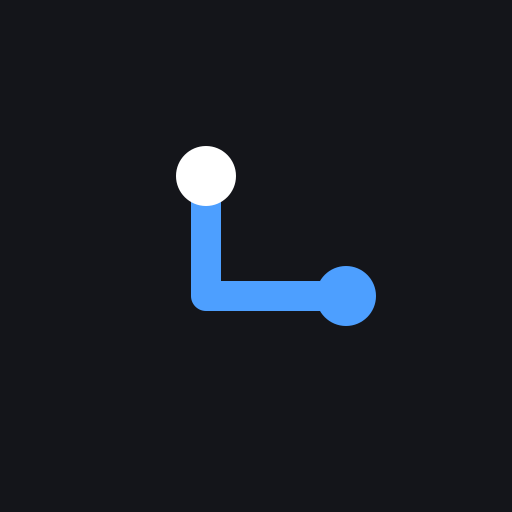
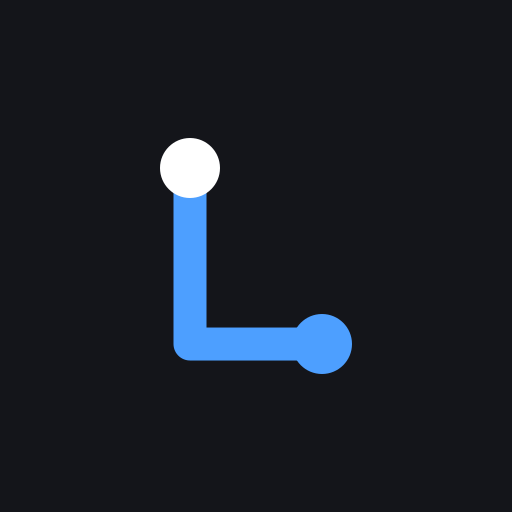
playground: reshape brand mark to read as the letter L (#213)
Match landing: path M11 7V23H23 with pads at 11,7 and 23,23, plus
regenerated favicon/app-icon assets and the pulsing loading-screen mark.

Changed region(s): [[0.3125, 0.25, 0.75, 0.75]]

diff --git a/packages/playground/index.html b/packages/playground/index.html
@@ -42,9 +42,9 @@
 <body>
   <div id="root"><div id="loading">
     <svg width="40" height="40" viewBox="0 0 32 32" fill="none" aria-hidden="true">
-      <path d="M10 7V19H25" stroke="#4d9fff" stroke-width="3" stroke-linecap="round" stroke-linejoin="round"/>
-      <circle cx="10" cy="7" r="3" fill="#e8eaed"/>
-      <circle cx="25" cy="19" r="3" fill="#4d9fff"/>
+      <path d="M11 7V23H23" stroke="#4d9fff" stroke-width="3" stroke-linecap="round" stroke-linejoin="round"/>
+      <circle cx="11" cy="7" r="3" fill="#e8eaed"/>
+      <circle cx="23" cy="23" r="3" fill="#4d9fff"/>
     </svg>
     Loading…
   </div></div>

diff --git a/packages/playground/src/Icons.tsx b/packages/playground/src/Icons.tsx
@@ -142,9 +142,9 @@ export function ChevronRightIcon({ size = defaults.size, ...rest }: IconProps) {
 
 export const LogoIcon = (props: React.SVGProps<SVGSVGElement>) => (
   <svg viewBox="0 0 32 32" width="18" height="18" fill="none" {...props}>
-    <path d="M10 7V19H25" stroke="currentColor" strokeWidth="3" strokeLinecap="round" strokeLinejoin="round" />
-    <circle cx="10" cy="7" r="3" fill="currentColor" />
-    <circle cx="25" cy="19" r="3" fill="currentColor" />
+    <path d="M11 7V23H23" stroke="currentColor" strokeWidth="3" strokeLinecap="round" strokeLinejoin="round" />
+    <circle cx="11" cy="7" r="3" fill="currentColor" />
+    <circle cx="23" cy="23" r="3" fill="currentColor" />
   </svg>
 );
 

diff --git a/packages/playground/src/ci/CiLanding.tsx b/packages/playground/src/ci/CiLanding.tsx
@@ -563,9 +563,9 @@ export function CiLanding() {
         <div className="max-w-[1120px] mx-auto flex flex-wrap items-center justify-between gap-4 text-[13px] text-fg-tertiary">
           <div className="flex items-center gap-2 font-semibold">
             <svg viewBox="0 0 32 32" width="16" height="16" fill="none" aria-hidden>
-              <path d="M10 7V19H25" stroke="#0056b3" strokeWidth="3" strokeLinecap="round" strokeLinejoin="round" />
-              <circle cx="10" cy="7" r="3" fill="#1a1a1a" />
-              <circle cx="25" cy="19" r="3" fill="#0056b3" />
+              <path d="M11 7V23H23" stroke="#0056b3" strokeWidth="3" strokeLinecap="round" strokeLinejoin="round" />
+              <circle cx="11" cy="7" r="3" fill="#1a1a1a" />
+              <circle cx="23" cy="23" r="3" fill="#0056b3" />
             </svg>
             <span>LabWired · Deterministic firmware simulation</span>
           </div>

diff --git a/packages/playground/src/components/GlobalNav.tsx b/packages/playground/src/components/GlobalNav.tsx
@@ -97,9 +97,9 @@ export function GlobalLogo({ variant = 'light', className }: GlobalLogoProps) {
       title="LabWired home"
     >
       <svg viewBox="0 0 32 32" width="20" height="20" fill="none" aria-hidden="true">
-        <path d="M10 7V19H25" stroke="#4d9fff" stroke-width="3" stroke-linecap="round" stroke-linejoin="round" />
-        <circle cx="10" cy="7" r="3" fill="currentColor" />
-        <circle cx="25" cy="19" r="3" fill="#4d9fff" />
+        <path d="M11 7V23H23" stroke="#4d9fff" stroke-width="3" stroke-linecap="round" stroke-linejoin="round" />
+        <circle cx="11" cy="7" r="3" fill="currentColor" />
+        <circle cx="23" cy="23" r="3" fill="#4d9fff" />
       </svg>
       LabWired
     </a>

diff --git a/packages/playground/src/library/Library.tsx b/packages/playground/src/library/Library.tsx
@@ -363,9 +363,9 @@ export function Library() {
         <div className="max-w-[1120px] mx-auto flex flex-wrap items-center justify-between gap-4 text-[13px] text-fg-tertiary">
           <div className="flex items-center gap-2 font-semibold">
             <svg viewBox="0 0 32 32" width="16" height="16" fill="none" aria-hidden>
-              <path d="M10 7V19H25" stroke="#0056b3" strokeWidth="3" strokeLinecap="round" strokeLinejoin="round" />
-              <circle cx="10" cy="7" r="3" fill="#1a1a1a" />
-              <circle cx="25" cy="19" r="3" fill="#0056b3" />
+              <path d="M11 7V23H23" stroke="#0056b3" strokeWidth="3" strokeLinecap="round" strokeLinejoin="round" />
+              <circle cx="11" cy="7" r="3" fill="#1a1a1a" />
+              <circle cx="23" cy="23" r="3" fill="#0056b3" />
             </svg>
             <span>LabWired · Deterministic firmware simulation</span>
           </div>